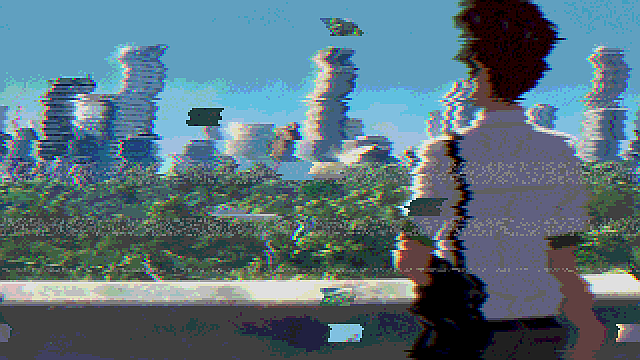
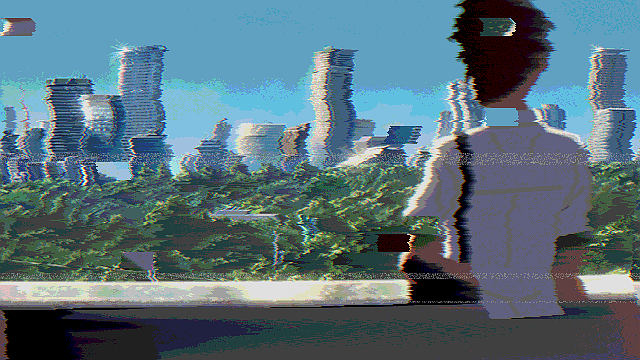
Updated README, added sample GIFs

diff --git a/README.md b/README.md
@@ -14,17 +14,35 @@ python ./glitch_me image_folder/*.png output_folder --line_count 120
 ```
 
 ## Usage
-`python ./glitch_me {INPUT} {OUTPUT} --line_count {LINE_COUNT}`
+```
+usage: glitch_me [-h] [--line_count LINE_COUNT] [-f FRAMES] [-d DURATION] [-b]
+                 {single,gif} input output
 
- - The `glitch_me` folder is a Python module, so that's what you pass to the `python` executible
- - `INPUT` is the path to the image you want to glitch, or a glob pattern to the images you want to glitch.
- - `OUPUT` is the path to the directory where you want the glitched images to be stored. The files will be named `{ORIGINAL_NAME}_glitch.png`
- - `LINE_COUNT` is the number of vertical pixels you want the image scaled down to before performing the glitches.
- The image will be upscaled back to it's original resolution while maintaining the pixelation.
+Adds some nice distortion/glitching to your images!
+
+positional arguments:
+  {single,gif}          Make a single glitched image, or a progressive glitch
+                        animation.
+  input                 Input image path glob pattern
+  output                Path to output directory
+
+optional arguments:
+  -h, --help            show this help message and exit
+  --line_count LINE_COUNT
+                        The vertical resolution you want the glitches to
+                        operate at
+  -f FRAMES, --frames FRAMES
+                        The number of frames you want in your GIF (default:
+                        10)
+  -d DURATION, --duration DURATION
+                        The delay between frames in ms (default: 100)
+  -b, --bounce          Include if you want the gif to play backward to the
+                        beginning before looping. Doubles frame count.
+```
 
 ## Examples using the included transforms
-| Original | Glitched |
-|----------|----------|
-|![tokyo](readme_assets/tokyo_small.png) | ![tokyo glitched](readme_assets/tokyo_small_glitch.png) |
-|![cafe](readme_assets/cafe_small.png) | ![cafe glitched](readme_assets/cafe_small_glitch.png) |
-|![gate](readme_assets/gate_small.png) | ![gate glitched](readme_assets/gate_small_glitch.png) |
+| Original | Glitched | GIF'd |
+|----------|----------|-------|
+|![tokyo](readme_assets/tokyo_small.png) | ![tokyo glitched](readme_assets/tokyo_small_glitch.png) | ![tokyo glitched gif](readme_assets/tokyo_small_anim.gif) |
+|![cafe](readme_assets/cafe_small.png) | ![cafe glitched](readme_assets/cafe_small_glitch.png) | ![cafe glitched gif](readme_assets/cafe_small_anim.gif) |
+|![gate](readme_assets/gate_small.png) | ![gate glitched](readme_assets/gate_small_glitch.png) | ![gate glitched gif](readme_assets/gate_small_anim.gif) |
